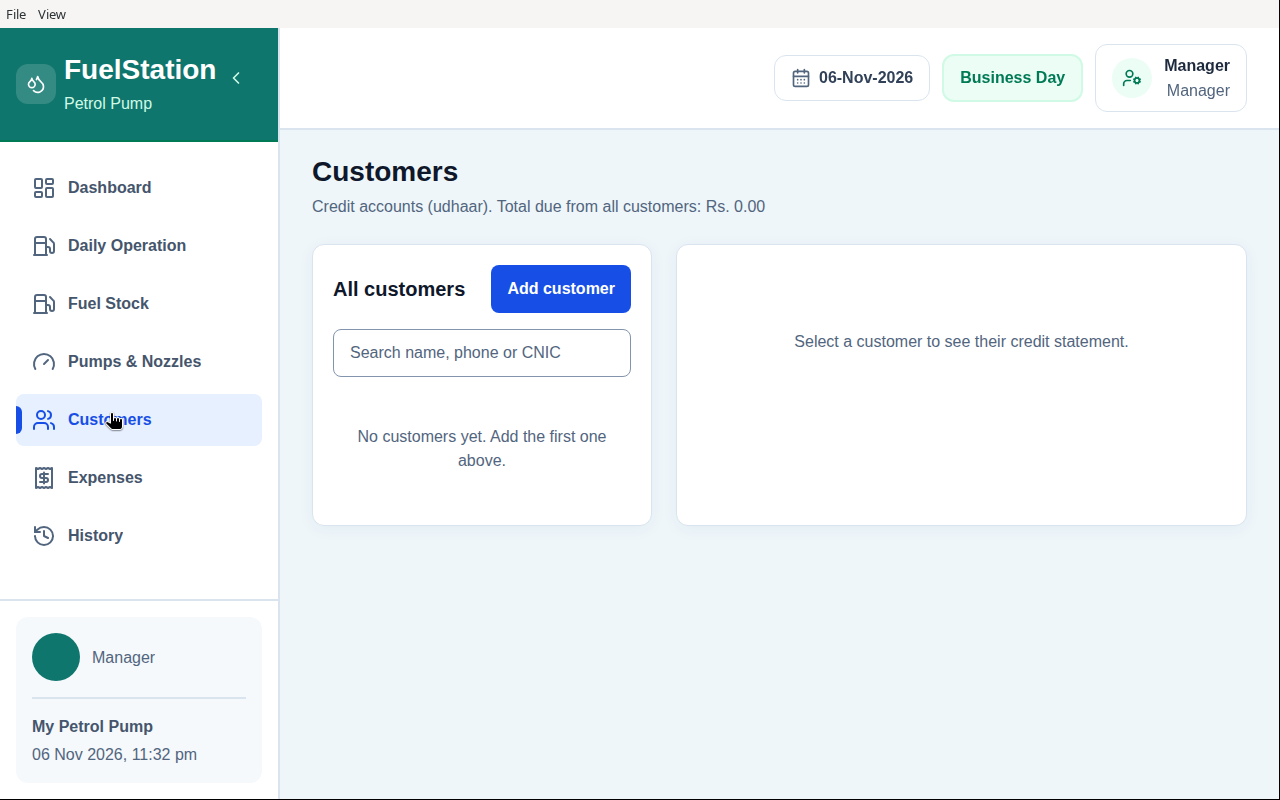
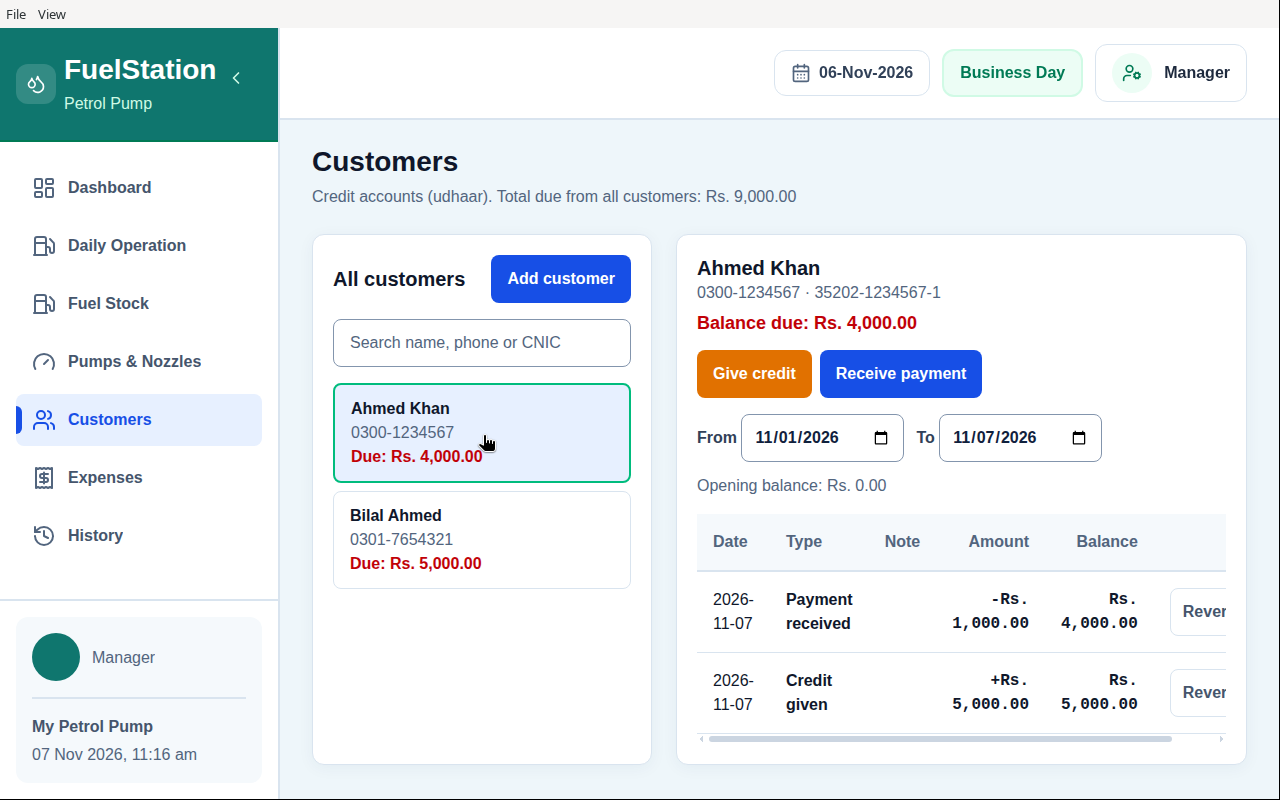
docs: demo-data screenshots and remove fixed known issue

diff --git a/README.md b/README.md
@@ -44,15 +44,15 @@ credit (*udhaar*), daily expenses, and the end-of-day cash check.
 
 ![Dashboard](docs/screenshots/dashboard.png)
 
-*Dashboard — the daily totals at a glance.*
+*Dashboard — the daily totals at a glance. (Demo data.)*
 
 ![Daily Operation](docs/screenshots/daily-operation.png)
 
-*Daily Operation — enter nozzle readings per shift.*
+*Daily Operation — enter nozzle readings per shift. (Demo data.)*
 
 ![Customers](docs/screenshots/customers.png)
 
-*Customers and credit — balances, credit given and repayments.*
+*Customers and credit — balances, credit given and repayments. (Demo data.)*
 
 ## Install (Windows)
 
@@ -89,7 +89,7 @@ can still be in the `-wal` file. Use the backup command instead.
 ## Tests
 
 ```sh
-npm run test:all   # calculations, store, readings, stock, dates, CSV and backup
+npm run test:all   # calculations, day totals, store, readings, stock, dates, CSV and backup
 ```
 
 The suites run against in-memory or temporary test databases and never touch
@@ -116,7 +116,6 @@ formats it for display.
 - **One pump.** Multiple stations are not supported.
 - **Pakistan-specific defaults:** Asia/Karachi dates, Rs. currency, petrol and CNG.
 - **Backups are manual.** The app does not back up by itself yet.
-- **Expenses page totals (issue #17).** Expenses entered on the Expenses page are saved, but they do not appear in dashboard and history day totals yet — only expenses added inside Daily Operation count. Expected cash is overstated by the missing amount. Fix in progress.
 
 ## Roadmap
 
